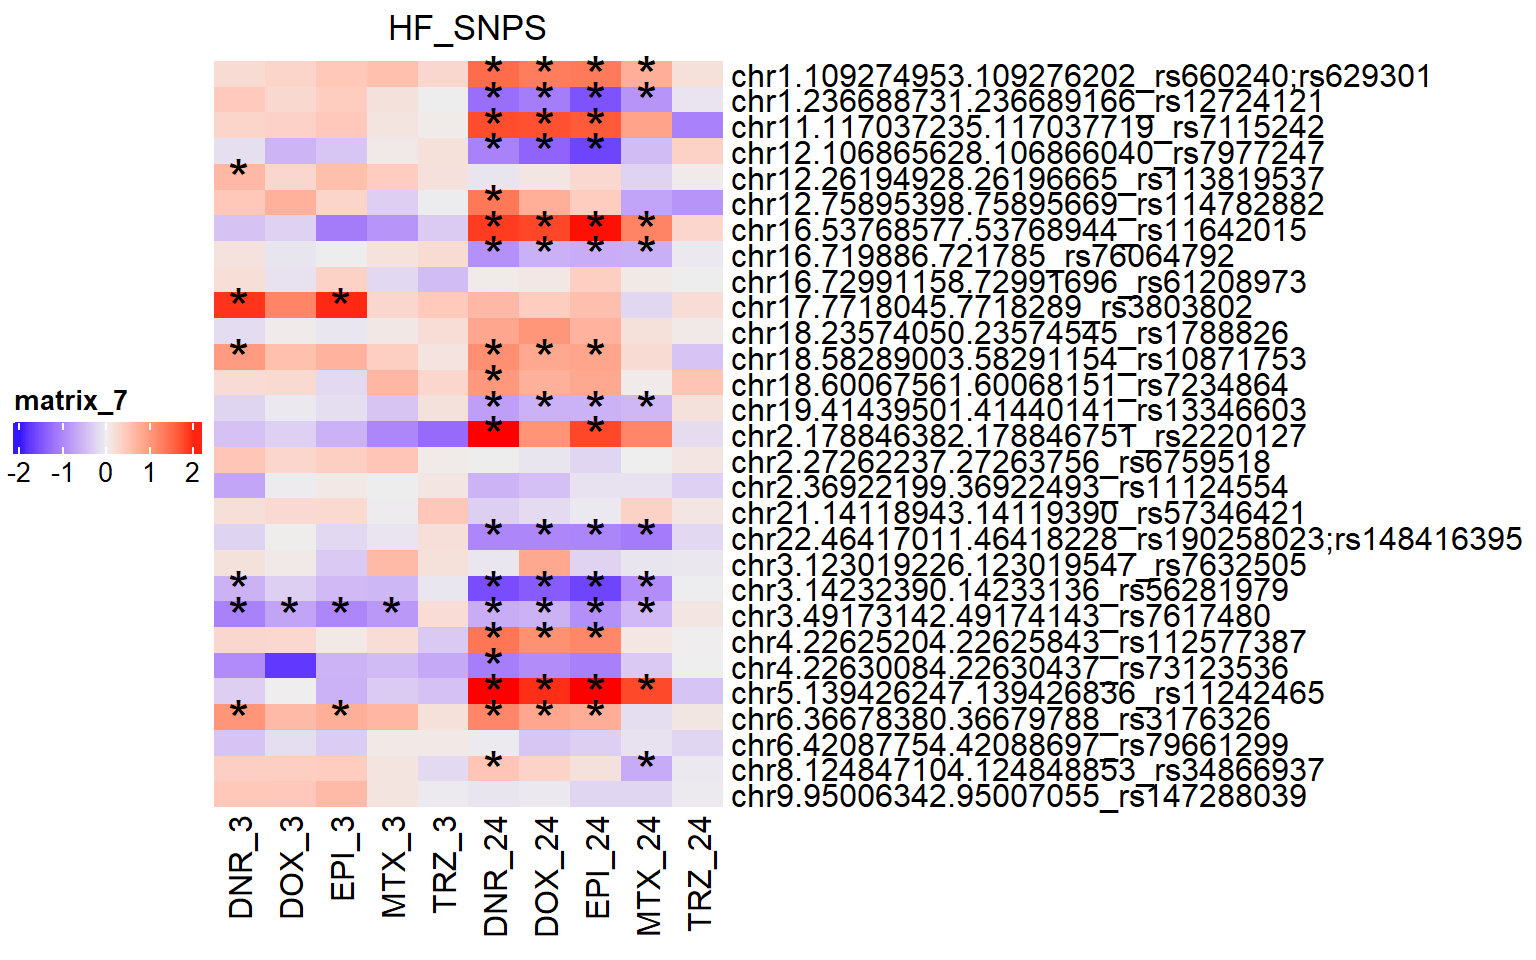
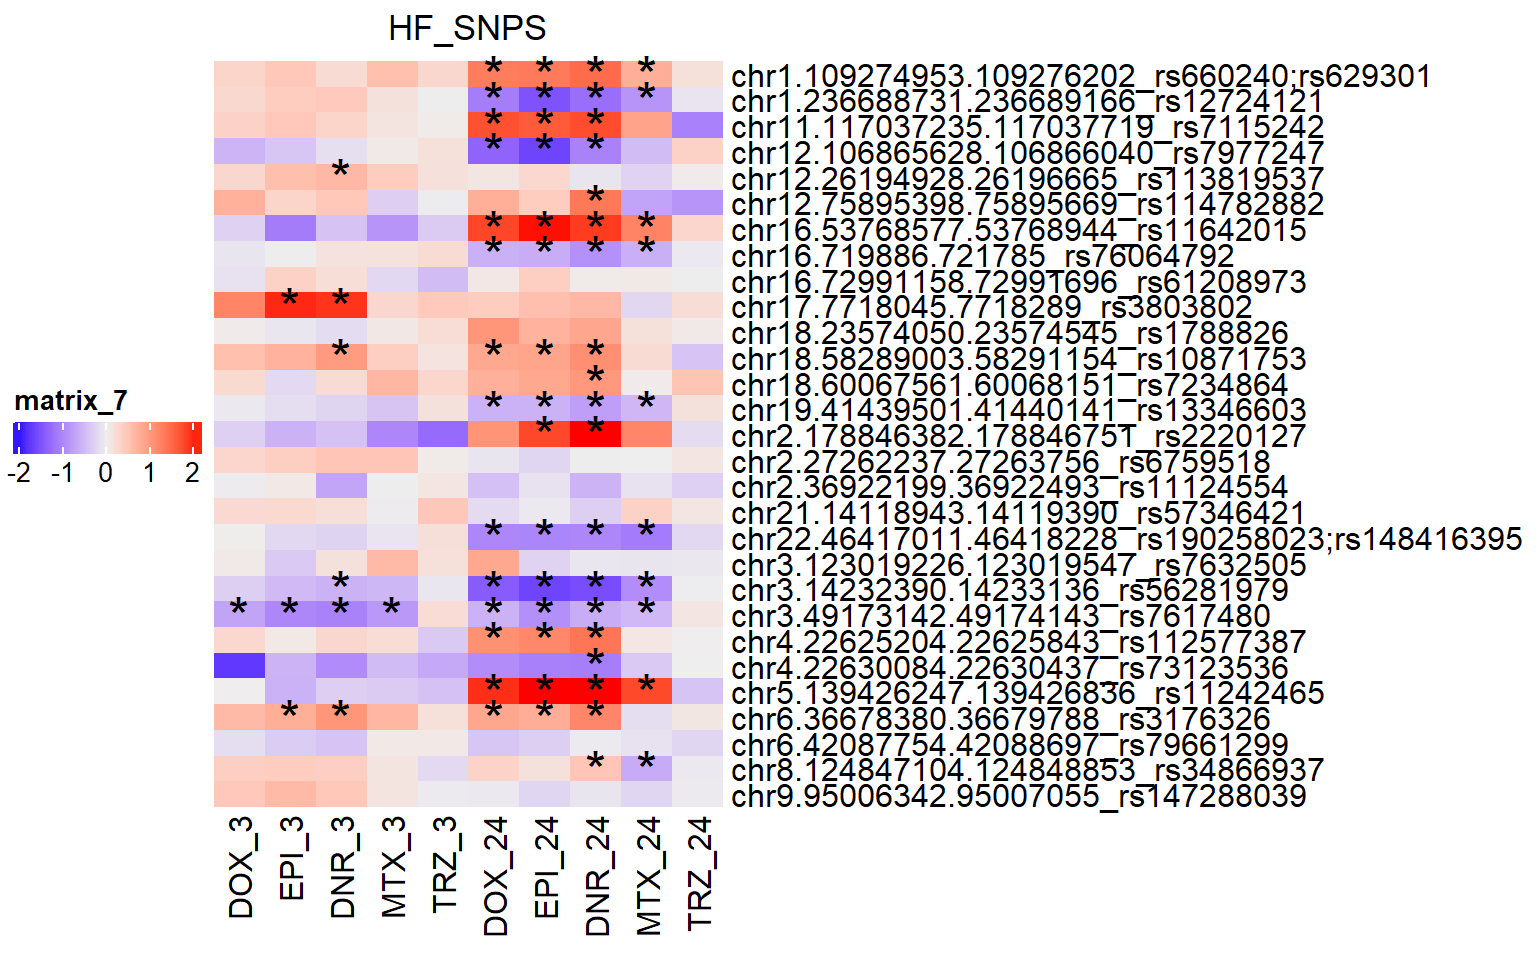
Build site.

diff --git a/docs/Supp_Fig_12-19.html b/docs/Supp_Fig_12-19.html
@@ -521,15 +521,15 @@ project makes it easier to run your code on other machines.</p>
 <div class="panel panel-default">
 <div class="panel-heading">
 <p class="panel-title">
-<a data-toggle="collapse" data-parent="#workflowr-checks" href="#strongRepositoryversionstrongahrefhttpsgithubcommwardlabMatthewscardiotoxATAC2025tree9179cfd1629664bf249651f09ae952d111d0eadatargetblank9179cfda">
+<a data-toggle="collapse" data-parent="#workflowr-checks" href="#strongRepositoryversionstrongahrefhttpsgithubcommwardlabMatthewscardiotoxATAC2025tree6e341d313634bcb43706994067d998076492d3c2targetblank6e341d3a">
 <span class="glyphicon glyphicon-ok text-success"
 aria-hidden="true"></span> <strong>Repository version:</strong>
-<a href="https://github.com/mward-lab/Matthews_cardiotox_ATAC_2025/tree/9179cfd1629664bf249651f09ae952d111d0eada" target="_blank">9179cfd</a>
+<a href="https://github.com/mward-lab/Matthews_cardiotox_ATAC_2025/tree/6e341d313634bcb43706994067d998076492d3c2" target="_blank">6e341d3</a>
 </a>
 </p>
 </div>
 <div
[2 lines of base64/hex data omitted]
 class="panel-collapse collapse">
 <div class="panel-body">
 <p>
@@ -539,7 +539,7 @@ reproducibility.
 </p>
 <p>
 The results in this page were generated with repository version
-<a href="https://github.com/mward-lab/Matthews_cardiotox_ATAC_2025/tree/9179cfd1629664bf249651f09ae952d111d0eada" target="_blank">9179cfd</a>.
+<a href="https://github.com/mward-lab/Matthews_cardiotox_ATAC_2025/tree/6e341d313634bcb43706994067d998076492d3c2" target="_blank">6e341d3</a>.
 See the <em>Past versions</em> tab to see a history of the changes made
 to the R Markdown and HTML files.
 </p>
@@ -798,6 +798,40 @@ Message
 </tr>
 </thead>
 <tbody>
+<tr>
+<td>
+Rmd
+</td>
+<td>
+<a href="https://github.com/mward-lab/Matthews_cardiotox_ATAC_2025/blob/6e341d313634bcb43706994067d998076492d3c2/analysis/Supp_Fig_12-19.Rmd" target="_blank">6e341d3</a>
+</td>
+<td>
+reneeisnowhere
+</td>
+<td>
+2025-08-11
+</td>
+<td>
+corrected order heatmaps
+</td>
+</tr>
+<tr>
+<td>
+html
+</td>
+<td>
+<a href="https://rawcdn.githack.com/mward-lab/Matthews_cardiotox_ATAC_2025/01325da92f3b19a28454d24e97c918da43e75002/docs/Supp_Fig_12-19.html" target="_blank">01325da</a>
+</td>
+<td>
+reneeisnowhere
+</td>
+<td>
+2025-08-11
+</td>
+<td>
+Build site.
+</td>
+</tr>
 <tr>
 <td>
 Rmd
@@ -1163,18 +1197,18 @@ tagMatrix_B &lt;- readRDS(&quot;data/Final_four_data/H3K27ac_files/IndB_tagMatri
 tagMatrix_C &lt;- readRDS(&quot;data/Final_four_data/H3K27ac_files/IndC_tagMatrix.RDS&quot;)
 ###making the plots and storing the 3 hour as an object
 a1&lt;- plotAvgProf(tagMatrix_A[c(1,3,5,7)], xlim=c(-3000, 3000), ylab = &quot;Count Frequency&quot;)+ ggtitle(&quot;3 hour Individual A&quot; )+coord_cartesian(xlim=c(-2000,2000))</code></pre>
-<pre><code>&gt;&gt; plotting figure...            2025-08-11 1:16:19 PM </code></pre>
+<pre><code>&gt;&gt; plotting figure...            2025-08-11 2:11:40 PM </code></pre>
 <pre class="r"><code>b1 &lt;- plotAvgProf(tagMatrix_B[c(1,3,4,7)], xlim=c(-3000, 3000), ylab = &quot;Count Frequency&quot;)+ ggtitle(&quot;3 hour Individual B&quot; )+coord_cartesian(xlim=c(-2000,2000))</code></pre>
-<pre><code>&gt;&gt; plotting figure...            2025-08-11 1:16:19 PM </code></pre>
+<pre><code>&gt;&gt; plotting figure...            2025-08-11 2:11:40 PM </code></pre>
 <pre class="r"><code>c1 &lt;- plotAvgProf(tagMatrix_C[c(1,4,6,8)], xlim=c(-3000, 3000), ylab = &quot;Count Frequency&quot;)+ ggtitle(&quot;3 hour Individual C&quot; )+coord_cartesian(xlim=c(-2000,2000))</code></pre>
-<pre><code>&gt;&gt; plotting figure...            2025-08-11 1:16:20 PM </code></pre>
+<pre><code>&gt;&gt; plotting figure...            2025-08-11 2:11:41 PM </code></pre>
 <pre class="r"><code>### making the plots and storing the 24 hour as an object
 a2&lt;- plotAvgProf(tagMatrix_A[c(2,4,6,8)], xlim=c(-3000, 3000), ylab = &quot;Count Frequency&quot;)+ ggtitle(&quot;24 hour Individual A&quot; )+coord_cartesian(xlim=c(-2000,2000))</code></pre>
-<pre><code>&gt;&gt; plotting figure...            2025-08-11 1:16:20 PM </code></pre>
+<pre><code>&gt;&gt; plotting figure...            2025-08-11 2:11:41 PM </code></pre>
 <pre class="r"><code>b2 &lt;- plotAvgProf(tagMatrix_B[c(2,5,6,8)], xlim=c(-3000, 3000), ylab = &quot;Count Frequency&quot;)+ ggtitle(&quot;24 hour Individual B&quot; )+coord_cartesian(xlim=c(-2000,2000))</code></pre>
-<pre><code>&gt;&gt; plotting figure...            2025-08-11 1:16:20 PM </code></pre>
+<pre><code>&gt;&gt; plotting figure...            2025-08-11 2:11:41 PM </code></pre>
 <pre class="r"><code>c2 &lt;- plotAvgProf(tagMatrix_C[c(2,3,5,7,9)], xlim=c(-3000, 3000), ylab = &quot;Count Frequency&quot;)+ ggtitle(&quot;24 hour Individual C&quot; )+coord_cartesian(xlim=c(-2000,2000))</code></pre>
-<pre><code>&gt;&gt; plotting figure...            2025-08-11 1:16:20 PM </code></pre>
+<pre><code>&gt;&gt; plotting figure...            2025-08-11 2:11:41 PM </code></pre>
 <pre class="r"><code>plot_grid(a1,a2, b1,b2,c1,c2, axis=&quot;l&quot;,align = &quot;hv&quot;,nrow=3, ncol=2)</code></pre>
 <p><img src="figure/Supp_Fig_12-19.Rmd/FigS12-1.png" width="672" style="display: block; margin: auto;" /></p>
 <p>
@@ -2642,10 +2676,10 @@ AF_sig_mat &lt;- AF_heatmap_df %&gt;%
   as.matrix()
 
 
-# desired_order &lt;- c(&quot;DOX_3&quot;, &quot;EPI_3&quot;, &quot;DNR_3&quot;, &quot;MTX_3&quot;, &quot;TRZ_3&quot;, &quot;DOX_24&quot;, &quot;EPI_24&quot;, &quot;DNR_24&quot;, &quot;MTX_24&quot;, &quot;TRZ_24&quot;)
-# 
-# AF_mat &lt;- AF_mat[, desired_order]
-# AF_sig_mat &lt;- AF_sig_mat[, desired_order]  # reorder your significance matrix the same way
+desired_order &lt;- c(&quot;DOX_3&quot;, &quot;EPI_3&quot;, &quot;DNR_3&quot;, &quot;MTX_3&quot;, &quot;TRZ_3&quot;, &quot;DOX_24&quot;, &quot;EPI_24&quot;, &quot;DNR_24&quot;, &quot;MTX_24&quot;, &quot;TRZ_24&quot;)
+
+AF_mat &lt;- AF_mat[, desired_order]
+AF_sig_mat &lt;- AF_sig_mat[, desired_order]  # reorder your significance matrix the same way
 
 
 simply_AF_lfc &lt;- ComplexHeatmap::Heatmap(AF_mat,
@@ -2733,7 +2767,9 @@ HF_sig_mat &lt;- HF_heatmap_df %&gt;%
   tidyr::unite(., name,Peakid,SNPS) %&gt;% 
   column_to_rownames(&quot;name&quot;) %&gt;% 
   as.matrix()
-
+desired_order &lt;- c(&quot;DOX_3&quot;, &quot;EPI_3&quot;, &quot;DNR_3&quot;, &quot;MTX_3&quot;, &quot;TRZ_3&quot;, &quot;DOX_24&quot;, &quot;EPI_24&quot;, &quot;DNR_24&quot;, &quot;MTX_24&quot;, &quot;TRZ_24&quot;)
+HF_mat &lt;- HF_mat[, desired_order]
+HF_sig_mat &lt;- HF_sig_mat[, desired_order]
 
 simply_HF_lfc &lt;- ComplexHeatmap::Heatmap(HF_mat,
                                          
